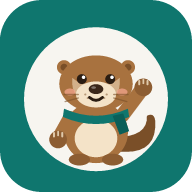
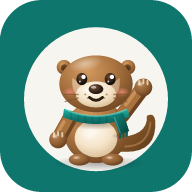
Make the otter mascot look 3D
Shade the mascot with light-from-top-left gradients, highlights,
eye sparkles, soft shadows and a knit scarf; regenerate app icons.

diff --git a/js/mascot.js b/js/mascot.js
@@ -9,40 +9,74 @@ import { h } from './ui.js';
 export const MASCOT_NAME = '수달이';
 
 const C = {
-  fur: '#a8723f', furDark: '#7a4f28', belly: '#f4e3c8', ink: '#2b1d12',
+  fur: '#a8723f', furLight: '#d39a60', furDark: '#7a4f28', furDeep: '#6b4320', belly: '#f4e3c8', ink: '#2b1d12',
   nose: '#3a271a', cheek: '#f2a48c', scarf: '#0f766e', scarfDark: '#0a5f58', paw: '#8d5d32',
 };
 
-// 팔: 어깨(sx,sy)에서 손(hx,hy)까지 굵은 선 + 둥근 손
+// 입체감: 왼쪽 위에서 빛이 온다고 보고, 둥근 면마다 밝은 곳→어두운 곳 그라데이션 + 반짝이 + 그림자.
+// 그라데이션 id 는 마스코트마다 따로 (한 화면에 여러 마리가 있어도 서로 안 섞이게)
+let uid = 0;
+function defs(p) {
+  const st = (o, c, a = 1) => `<stop offset="${o}" stop-color="${c}"${a < 1 ? ` stop-opacity="${a}"` : ''}/>`;
+  const rad = (id, cx, cy, r, stops) => `<radialGradient id="${p}${id}" cx="${cx}" cy="${cy}" r="${r}">${stops}</radialGradient>`;
+  return `<defs>
+    ${rad('fur', '.38', '.28', '.8', st(0, C.furLight) + st(0.5, C.fur) + st(1, C.furDeep))}
+    ${rad('belly', '.42', '.3', '.8', st(0, '#fffaf0') + st(0.55, C.belly) + st(1, '#d4b68c'))}
+    ${rad('paw', '.35', '.3', '.8', st(0, '#b98450') + st(0.6, C.paw) + st(1, '#5a381a'))}
+    ${rad('nose', '.35', '.3', '.75', st(0, '#7a5840') + st(0.6, C.nose) + st(1, '#1e130b'))}
+    ${rad('eye', '.38', '.32', '.7', st(0, '#6b4a30') + st(0.7, '#241710') + st(1, '#120a05'))}
+    ${rad('ear', '.5', '.6', '.6', st(0, '#4a2e16') + st(1, C.furDark))}
+    ${rad('shadow', '.5', '.5', '.5', st(0, '#000', 0.3) + st(1, '#000', 0))}
+    ${rad('ao', '.5', '.5', '.5', st(0, '#3b2210', 0.45) + st(1, '#3b2210', 0))}
+    ${rad('gloss', '.5', '.5', '.5', st(0, '#fff', 0.6) + st(1, '#fff', 0))}
+    ${rad('blush', '.5', '.5', '.5', st(0, '#f08a78', 0.85) + st(1, '#f08a78', 0))}
+    <linearGradient id="${p}scarf" x1="0" y1="0" x2="0" y2="1">${st(0, '#22b3a3') + st(0.45, C.scarf) + st(1, '#084c46')}</linearGradient>
+    <linearGradient id="${p}scarf2" x1="0" y1="0" x2="1" y2="1">${st(0, '#11887e') + st(1, '#063f3a')}</linearGradient>
+    <linearGradient id="${p}tail" x1="0" y1="0" x2="1" y2="1">${st(0, '#a06a38') + st(1, '#553515')}</linearGradient>
+  </defs>`;
+}
+
+// 팔: 어깨(sx,sy)에서 손(hx,hy)까지. 어두운 테두리 + 털색 + 빛 받는 줄로 둥근 원통처럼
 function arm(cls, sx, sy, hx, hy) {
-  return `<g class="m-arm ${cls}" style="transform-origin:${sx}px ${sy}px">
-    <path d="M${sx} ${sy}L${hx} ${hy}" stroke="${C.fur}" stroke-width="12" stroke-linecap="round"/>
-    <circle cx="${hx}" cy="${hy}" r="7.5" fill="${C.paw}"/>
+  return (p) => {
+    const L = (t) => `${(sx + (hx - sx) * t).toFixed(1)} ${(sy + (hy - sy) * t).toFixed(1)}`;
+    const d = `M${sx} ${sy}L${hx} ${hy}`;
+    return `<g class="m-arm ${cls}" style="transform-origin:${sx}px ${sy}px">
+    <path d="${d}" stroke="${C.furDeep}" stroke-width="12.5" stroke-linecap="round"/>
+    <path d="${d}" stroke="${C.fur}" stroke-width="9" stroke-linecap="round" transform="translate(-1 -1)"/>
+    <path d="M${L(0.3)}L${L(0.78)}" stroke="${C.furLight}" stroke-width="3" stroke-linecap="round" opacity=".75" transform="translate(-2.2 -2.2)"/>
+    <circle cx="${hx}" cy="${hy}" r="7.5" fill="url(#${p}paw)"/>
+    <ellipse cx="${hx - 2.6}" cy="${hy - 2.8}" rx="3.4" ry="2.4" fill="url(#${p}gloss)"/>
     <path d="M${hx - 3.5} ${hy - 5.5}v3M${hx} ${hy - 6.5}v3M${hx + 3.5} ${hy - 5.5}v3" stroke="${C.belly}" stroke-width="1.6" stroke-linecap="round" opacity=".8"/>
   </g>`;
+  };
 }
 
 const ARMS = {
-  wave: arm('left', 38, 76, 28, 94) + arm('right wave', 82, 74, 100, 50),
-  cheer: arm('left up', 38, 74, 18, 50) + arm('right up', 82, 74, 102, 50),
-  happy: arm('left', 38, 76, 30, 95) + arm('right', 82, 76, 90, 95),
-  sad: arm('left', 40, 78, 44, 98) + arm('right', 80, 78, 76, 98),
-  think: arm('left', 38, 76, 30, 95) + arm('right', 82, 76, 70, 62),
-  sleep: arm('left', 40, 78, 46, 97) + arm('right', 80, 78, 74, 97),
+  wave: [arm('left', 38, 76, 28, 94), arm('right wave', 82, 74, 100, 50)],
+  cheer: [arm('left up', 38, 74, 18, 50), arm('right up', 82, 74, 102, 50)],
+  happy: [arm('left', 38, 76, 30, 95), arm('right', 82, 76, 90, 95)],
+  sad: [arm('left', 40, 78, 44, 98), arm('right', 80, 78, 76, 98)],
+  think: [arm('left', 38, 76, 30, 95), arm('right', 82, 76, 70, 62)],
+  sleep: [arm('left', 40, 78, 46, 97), arm('right', 80, 78, 74, 97)],
 };
 
+// 동그란 눈: 그라데이션 눈동자 + 큰 반짝이 + 작은 반사광
+const eye = (p, cx, cy, r) => `<ellipse cx="${cx}" cy="${cy}" rx="${r}" ry="${(r * 1.12).toFixed(2)}" fill="url(#${p}eye)"/>
+    <circle cx="${(cx + r * 0.32).toFixed(2)}" cy="${(cy - r * 0.4).toFixed(2)}" r="${(r * 0.4).toFixed(2)}" fill="#fff"/>
+    <circle cx="${(cx - r * 0.35).toFixed(2)}" cy="${(cy + r * 0.45).toFixed(2)}" r="${(r * 0.18).toFixed(2)}" fill="#fff" opacity=".75"/>`;
+
 const EYES = {
-  open: `<g class="m-eyes"><circle cx="48" cy="43" r="4.2" fill="${C.ink}"/><circle cx="72" cy="43" r="4.2" fill="${C.ink}"/>
-    <circle cx="49.5" cy="41.5" r="1.5" fill="#fff"/><circle cx="73.5" cy="41.5" r="1.5" fill="#fff"/></g>`,
-  smile: `<path d="M43.5 44.5q4.5-5.5 9 0M67.5 44.5q4.5-5.5 9 0" stroke="${C.ink}" stroke-width="3" fill="none" stroke-linecap="round"/>`,
-  sad: `<g><circle cx="48" cy="45" r="3.8" fill="${C.ink}"/><circle cx="72" cy="45" r="3.8" fill="${C.ink}"/>
+  open: (p) => `<g class="m-eyes">${eye(p, 48, 43, 4.6)}${eye(p, 72, 43, 4.6)}</g>`,
+  smile: () => `<path d="M43.5 44.5q4.5-5.5 9 0M67.5 44.5q4.5-5.5 9 0" stroke="${C.ink}" stroke-width="3.2" fill="none" stroke-linecap="round"/>`,
+  sad: (p) => `<g>${eye(p, 48, 45, 4)}${eye(p, 72, 45, 4)}
     <path d="M42 40l9-3.5M78 40l-9-3.5" stroke="${C.furDark}" stroke-width="2.4" stroke-linecap="round"/></g>`,
-  closed: `<path d="M43.5 44q4.5 3.5 9 0M67.5 44q4.5 3.5 9 0" stroke="${C.ink}" stroke-width="2.6" fill="none" stroke-linecap="round"/>`,
+  closed: () => `<path d="M43.5 44q4.5 3.5 9 0M67.5 44q4.5 3.5 9 0" stroke="${C.ink}" stroke-width="2.6" fill="none" stroke-linecap="round"/>`,
 };
 
 const MOUTH = {
   smile: `<path d="M54.5 58.5q5.5 5 11 0" stroke="${C.ink}" stroke-width="2.4" fill="none" stroke-linecap="round"/>`,
-  open: `<path d="M53 57.5q7 11 14 0z" fill="${C.ink}"/><path d="M56.5 61.8q3.5-2.4 7 0q-3.5 3.2-7 0z" fill="#e8737a"/>`,
+  open: `<path d="M53 57.5q7 11 14 0z" fill="${C.ink}"/><path d="M56.5 61.8q3.5-2.4 7 0q-3.5 3.2-7 0z" fill="#e8737a"/><path d="M57.6 61.6q2.4-1.2 4.8 0" stroke="#f7a3a8" stroke-width="1" fill="none" stroke-linecap="round"/>`,
   sad: `<path d="M55 62q5-4.5 10 0" stroke="${C.ink}" stroke-width="2.4" fill="none" stroke-linecap="round"/>`,
   flat: `<path d="M56 60.5h8" stroke="${C.ink}" stroke-width="2.4" stroke-linecap="round"/>`,
   o: `<ellipse cx="60" cy="60.5" rx="2.6" ry="3" fill="${C.ink}"/>`,
@@ -57,8 +91,21 @@ const FACES = {
   sleep: [EYES.closed, MOUTH.o],
 };
 
+// 목도리 뜨개 무늬 (목도리 곡선을 따라)
+const RIBS = (() => {
+  let d = '';
+  for (let x = 39; x <= 82; x += 6) {
+    const t = (x - 33) / 54;
+    d += `M${x} ${(68 + 24 * t * (1 - t) + 1.2).toFixed(1)}v5.2`;
+  }
+  return d;
+})();
+
 function svg(mood) {
+  const p = `ms${++uid}-`;
+  const u = (id) => `url(#${p}${id})`;
   const [eyes, mouth] = FACES[mood] || FACES.wave;
+  const arms = (ARMS[mood] || ARMS.wave).map((f) => f(p)).join('');
   const extra = mood === 'sleep'
     ? `<g class="m-zzz" fill="${C.scarf}" font-weight="800" font-family="sans-serif"><text x="88" y="26" font-size="13">z</text><text x="98" y="16" font-size="9">z</text></g>`
     : mood === 'think'
@@ -66,29 +113,44 @@ function svg(mood) {
       : mood === 'cheer'
         ? `<g class="m-spark" fill="#e9b949"><path d="M14 30l2.5 5.5 5.5 2.5-5.5 2.5-2.5 5.5-2.5-5.5-5.5-2.5 5.5-2.5z"/><path d="M106 22l2 4 4 2-4 2-2 4-2-4-4-2 4-2z"/></g>`
         : mood === 'sad'
-          ? `<path class="m-tear" d="M77 51q2.2 3.6 0 5.2q-2.2-1.6 0-5.2z" fill="#6cb4e4"/>`
+          ? `<path class="m-tear" d="M77 51q2.2 3.6 0 5.2q-2.2-1.6 0-5.2z" fill="#6cb4e4"/><circle cx="76.4" cy="54.2" r=".7" fill="#fff" opacity=".8"/>`
           : '';
   return `<svg viewBox="0 0 120 120" aria-hidden="true" focusable="false">
-  <path d="M78 104q34 4 32-26q-1-7-7-4q1 18-27 18z" fill="${C.furDark}"/>
-  <ellipse cx="60" cy="88" rx="27" ry="26" fill="${C.fur}"/>
-  <ellipse cx="60" cy="93" rx="18" ry="16" fill="${C.belly}"/>
-  <ellipse cx="46" cy="111" rx="9" ry="5" fill="${C.paw}"/><ellipse cx="74" cy="111" rx="9" ry="5" fill="${C.paw}"/>
-  ${ARMS[mood] || ARMS.wave}
+  ${defs(p)}
+  <ellipse cx="62" cy="114" rx="40" ry="6.5" fill="${u('shadow')}"/>
+  <path d="M78 104q34 4 32-26q-1-7-7-4q1 18-27 18z" fill="${u('tail')}"/>
+  <path d="M84 100q20 0 22-20" stroke="${C.furLight}" stroke-width="1.6" fill="none" stroke-linecap="round" opacity=".45"/>
+  <ellipse cx="60" cy="88" rx="27" ry="26" fill="${u('fur')}"/>
+  <ellipse cx="60" cy="93" rx="18" ry="16" fill="${u('belly')}"/>
+  <ellipse cx="53" cy="90" rx="7" ry="5" fill="${u('gloss')}" opacity=".7"/>
+  <ellipse cx="60" cy="80" rx="25" ry="6" fill="${u('ao')}"/>
+  <ellipse cx="46" cy="111" rx="9" ry="5" fill="${u('paw')}"/><ellipse cx="74" cy="111" rx="9" ry="5" fill="${u('paw')}"/>
+  <ellipse cx="43.5" cy="109.4" rx="3.6" ry="1.7" fill="${u('gloss')}"/><ellipse cx="71.5" cy="109.4" rx="3.6" ry="1.7" fill="${u('gloss')}"/>
+  ${arms}
   <g class="m-head">
-    <circle cx="33" cy="33" r="6" fill="${C.fur}"/><circle cx="33" cy="33" r="3" fill="${C.furDark}"/>
-    <circle cx="87" cy="33" r="6" fill="${C.fur}"/><circle cx="87" cy="33" r="3" fill="${C.furDark}"/>
-    <ellipse cx="60" cy="47" rx="31" ry="24" fill="${C.fur}"/>
-    <path d="M40 42q-2 20 20 22q22-2 20-22q-6 6-20 6t-20-6z" fill="${C.belly}" opacity=".55"/>
-    <ellipse cx="60" cy="56" rx="17" ry="11" fill="${C.belly}"/>
-    <ellipse cx="38" cy="54" rx="4.6" ry="3" fill="${C.cheek}" opacity=".75"/><ellipse cx="82" cy="54" rx="4.6" ry="3" fill="${C.cheek}" opacity=".75"/>
-    ${eyes}
-    <ellipse cx="60" cy="51.5" rx="6.2" ry="4.2" fill="${C.nose}"/><ellipse cx="58" cy="50.2" rx="2" ry="1.1" fill="#fff" opacity=".35"/>
+    <circle cx="33" cy="33" r="6.2" fill="${u('fur')}"/><circle cx="33.4" cy="33.6" r="3.1" fill="${u('ear')}"/>
+    <circle cx="87" cy="33" r="6.2" fill="${u('fur')}"/><circle cx="86.6" cy="33.6" r="3.1" fill="${u('ear')}"/>
+    <ellipse cx="60" cy="47" rx="31" ry="24" fill="${u('fur')}"/>
+    <path d="M40 42q-2 20 20 22q22-2 20-22q-6 6-20 6t-20-6z" fill="${u('belly')}" opacity=".5"/>
+    <ellipse cx="51" cy="30" rx="15" ry="6.5" fill="${u('gloss')}" opacity=".75" transform="rotate(-12 51 30)"/>
+    <ellipse cx="60" cy="65" rx="15" ry="3.6" fill="${u('ao')}" opacity=".7"/>
+    <ellipse cx="60" cy="56" rx="17" ry="11" fill="${u('belly')}"/>
+    <ellipse cx="54" cy="53" rx="7" ry="3.4" fill="${u('gloss')}" opacity=".8"/>
+    <ellipse cx="38" cy="54" rx="6.4" ry="4" fill="${u('blush')}"/><ellipse cx="82" cy="54" rx="6.4" ry="4" fill="${u('blush')}"/>
+    ${eyes(p)}
+    <ellipse cx="60" cy="53.2" rx="6" ry="2.6" fill="${u('ao')}" opacity=".6"/>
+    <ellipse cx="60" cy="51.5" rx="6.2" ry="4.2" fill="${u('nose')}"/><ellipse cx="58" cy="49.9" rx="2.3" ry="1.2" fill="#fff" opacity=".55"/>
     <g fill="${C.furDark}" opacity=".5"><circle cx="51" cy="56" r=".9"/><circle cx="53" cy="59" r=".9"/><circle cx="69" cy="56" r=".9"/><circle cx="67" cy="59" r=".9"/></g>
     <path d="M45 56h-12M45 59l-11 3M75 56h12M75 59l11 3" stroke="${C.furDark}" stroke-width="1.2" stroke-linecap="round" opacity=".6"/>
     ${mouth}
   </g>
-  <path d="M33 68q27 12 54 0l1 7q-28 12-56 0z" fill="${C.scarf}"/>
-  <path d="M74 74l6 16 8-3-5-15z" fill="${C.scarfDark}"/>
+  <path d="M33 68q27 12 54 0l1 7q-28 12-56 0z" fill="${u('scarf')}"/>
+  <path d="${RIBS}" stroke="#063f3a" stroke-width="1" stroke-linecap="round" opacity=".3"/>
+  <path d="M34.5 68.8q25.5 11 51 0" stroke="#7fe0d3" stroke-width="1.3" fill="none" stroke-linecap="round" opacity=".55"/>
+  <ellipse cx="80" cy="91" rx="7" ry="2.6" fill="${u('ao')}" opacity=".7"/>
+  <path d="M74 74l6 16 8-3-5-15z" fill="${u('scarf2')}"/>
+  <path d="M75.5 75.5l5 12.8" stroke="#5fd3c4" stroke-width="1" stroke-linecap="round" opacity=".45"/>
+  <path d="M80.6 90.2l-.3 2.6M83.2 89.3l-.1 2.7M85.8 88.4l.1 2.6" stroke="${C.scarfDark}" stroke-width="1.4" stroke-linecap="round"/>
   ${extra}
 </svg>`;
 }
